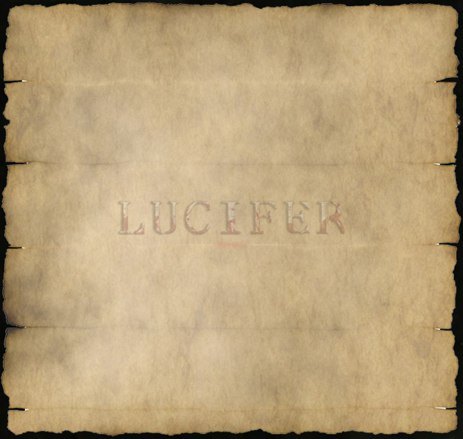
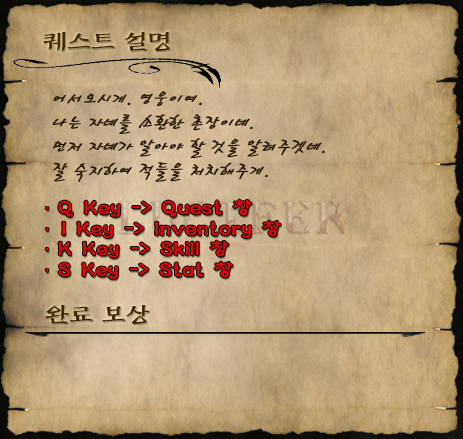
Update : Quest BTN, Content add

diff --git a/lucifer/lucifer/static/js/game/User_Interface/Quest.js b/lucifer/lucifer/static/js/game/User_Interface/Quest.js
@@ -12,12 +12,22 @@ var QuestContent_lv1, QuestContent_lv2, QuestContent_lv3,
     QuestContent_lv7, QuestContent_lv8, QuestContent_lv9, QuestContent_lv10 ;
 
 var text, text2, text3, text4, text5, text6, text7, text8, text9, text10, style;
+var btnText, btnText2, btnText3, btnText4, btnText5, btnText6, btnText7, btnText8, btnText9, btnText10 ;
 
 function QuestPreload(){
 
     Lucifer_Game.load.spritesheet('UI_Quest', '../../static/images/game/UI/Quest/QuestFrame.png', 867, 580);
     Lucifer_Game.load.spritesheet('Questbtn', '../../static/images/game/UI/Quest/QuestBtn.png', 325, 43);
     Lucifer_Game.load.spritesheet('QuestContent', '../../static/images/game/UI/Quest/Questcontent.png', 463, 439);
+    Lucifer_Game.load.spritesheet('QuestContent2', '../../static/images/game/UI/Quest/Questcontent2.png', 463, 439);
+    Lucifer_Game.load.spritesheet('QuestContent3', '../../static/images/game/UI/Quest/Questcontent3.png', 463, 439);
+    Lucifer_Game.load.spritesheet('QuestContent4', '../../static/images/game/UI/Quest/Questcontent4.png', 463, 439);
+    Lucifer_Game.load.spritesheet('QuestContent5', '../../static/images/game/UI/Quest/Questcontent5.png', 463, 439);
+    Lucifer_Game.load.spritesheet('QuestContent6', '../../static/images/game/UI/Quest/Questcontent6.png', 463, 439);
+    Lucifer_Game.load.spritesheet('QuestContent7', '../../static/images/game/UI/Quest/Questcontent7.png', 463, 439);
+    Lucifer_Game.load.spritesheet('QuestContent8', '../../static/images/game/UI/Quest/Questcontent8.png', 463, 439);
+    Lucifer_Game.load.spritesheet('QuestContent9', '../../static/images/game/UI/Quest/Questcontent9.png', 463, 439);
+    Lucifer_Game.load.spritesheet('QuestContent10', '../../static/images/game/UI/Quest/Questcontent10.png', 463, 439);
 
 };
 
@@ -49,6 +59,9 @@ function QuestCreate(){
      Questbtn_lv1.anchor.setTo(0.5, 0.5);
      Questbtn_lv1.fixedToCamera = true;
      Questbtn_lv1.visible = false;
+
+     btnText = Lucifer_Game.add.text(203, 600, "LV.1    -    [ 인터페이스를 알아보자 ]" , {font: '17px Roboto', fill: '#ffffff'});
+     btnText.anchor.set(0.5);
      //---------------------------------------------------------------
 
      //QuestButton Level 2 
@@ -56,6 +69,9 @@ function QuestCreate(){
      Questbtn_lv2.anchor.setTo(0.5, 0.5);
      Questbtn_lv2.fixedToCamera = true;
      Questbtn_lv2.visible = false;
+
+     btnText2 = Lucifer_Game.add.text(203, 600, "LV.2    -    [ 기본 아이템 구매 ]" , {font: '17px Roboto', fill: '#ffffff'});
+     btnText2.anchor.set(0.5);
      //---------------------------------------------------------------
 
      //QuestButton Level 3 
@@ -63,6 +79,9 @@ function QuestCreate(){
      Questbtn_lv3.anchor.setTo(0.5, 0.5);
      Questbtn_lv3.fixedToCamera = true;
      Questbtn_lv3.visible = false;
+
+     btnText3 = Lucifer_Game.add.text(203, 600, "LV.3    -    [ Countess 처치하라 ]" , {font: '17px Roboto', fill: '#ffffff'});
+     btnText3.anchor.set(0.5);
      //---------------------------------------------------------------
 
      //QuestButton Level 4 
@@ -70,6 +89,9 @@ function QuestCreate(){
      Questbtn_lv4.anchor.setTo(0.5, 0.5);
      Questbtn_lv4.fixedToCamera = true;
      Questbtn_lv4.visible = false;
+
+     btnText4 = Lucifer_Game.add.text(203, 600, "LV.4    -    [ Golem을 저지하라 ]" , {font: '17px Roboto', fill: '#ffffff'});
+     btnText4.anchor.set(0.5);
      //---------------------------------------------------------------
 
      //QuestButton Level 5 
@@ -77,6 +99,9 @@ function QuestCreate(){
      Questbtn_lv5.anchor.setTo(0.5, 0.5);
      Questbtn_lv5.fixedToCamera = true;
      Questbtn_lv5.visible = false;
+
+     btnText5 = Lucifer_Game.add.text(203, 600, "LV.5    -    [ Demon을 잡아보자 ]" , {font: '17px Roboto', fill: '#ffffff'});
+     btnText5.anchor.set(0.5);
      //---------------------------------------------------------------
 
      //QuestButton Level 6 
@@ -84,6 +109,9 @@ function QuestCreate(){
      Questbtn_lv6.anchor.setTo(0.5, 0.5);
      Questbtn_lv6.fixedToCamera = true;
      Questbtn_lv6.visible = false;
+
+     btnText6 = Lucifer_Game.add.text(203, 600, "LV.6    -    [ Council를 처치하라 ]" , {font: '17px Roboto', fill: '#ffffff'});
+     btnText6.anchor.set(0.5);
      //---------------------------------------------------------------
 
      //QuestButton Level 7 
@@ -91,6 +119,9 @@ function QuestCreate(){
      Questbtn_lv7.anchor.setTo(0.5, 0.5);
      Questbtn_lv7.fixedToCamera = true;
      Questbtn_lv7.visible = false;
+
+     btnText7 = Lucifer_Game.add.text(203, 600, "LV.7    -    [ Wraith를 무찌르자 ]" , {font: '17px Roboto', fill: '#ffffff'});
+     btnText7.anchor.set(0.5);
      //---------------------------------------------------------------
 
      //QuestButton Level 8 
@@ -98,6 +129,9 @@ function QuestCreate(){
      Questbtn_lv8.anchor.setTo(0.5, 0.5);
      Questbtn_lv8.fixedToCamera = true;
      Questbtn_lv8.visible = false;
+
+     btnText8 = Lucifer_Game.add.text(203, 600, "LV.8    -    [ Fallen_Shaman을 막자 ]" , {font: '17px Roboto', fill: '#ffffff'});
+     btnText8.anchor.set(0.5);
      //---------------------------------------------------------------
 
      //QuestButton Level 9 
@@ -105,6 +139,9 @@ function QuestCreate(){
      Questbtn_lv9.anchor.setTo(0.5, 0.5);
      Questbtn_lv9.fixedToCamera = true;
      Questbtn_lv9.visible = false;
+
+     btnText9 = Lucifer_Game.add.text(203, 600, "LV.9    -    [ Andariel을 처치하라 ]" , {font: '17px Roboto', fill: '#ffffff'});
+     btnText9.anchor.set(0.5);
      //---------------------------------------------------------------
 
      //QuestButton Level 10 
@@ -112,6 +149,9 @@ function QuestCreate(){
      Questbtn_lv10.anchor.setTo(0.5, 0.5);
      Questbtn_lv10.fixedToCamera = true;
      Questbtn_lv10.visible = false;
+
+     btnText10 = Lucifer_Game.add.text(203, 600, "LV.10    -    [ Diablo를 봉인하라 ]" , {font: '17px Roboto', fill: '#ffffff'});
+     btnText10.anchor.set(0.5);
      //---------------------------------------------------------------
 
      //---------------------------------------------------------------------------------------------
@@ -123,99 +163,109 @@ function QuestCreate(){
      //---------------------------------------------------------------
 
      //QuestContent 2
-     QuestContent_lv2 = Lucifer_Game.add.sprite(817, 382.5, 'QuestContent');
+     QuestContent_lv2 = Lucifer_Game.add.sprite(817, 382.5, 'QuestContent2');
      QuestContent_lv2.anchor.setTo(0.5, 0.5);
      QuestContent_lv2.fixedToCamera = true;
      QuestContent_lv2.visible = false;
      //---------------------------------------------------------------
 
      //QuestContent 3
-     QuestContent_lv3 = Lucifer_Game.add.sprite(817, 382.5, 'QuestContent');
+     QuestContent_lv3 = Lucifer_Game.add.sprite(817, 382.5, 'QuestContent3');
      QuestContent_lv3.anchor.setTo(0.5, 0.5);
      QuestContent_lv3.fixedToCamera = true;
      QuestContent_lv3.visible = false;
      //---------------------------------------------------------------
 
      //QuestContent 4
-     QuestContent_lv4 = Lucifer_Game.add.sprite(817, 382.5, 'QuestContent');
+     QuestContent_lv4 = Lucifer_Game.add.sprite(817, 382.5, 'QuestContent4');
      QuestContent_lv4.anchor.setTo(0.5, 0.5);
      QuestContent_lv4.fixedToCamera = true;
      QuestContent_lv4.visible = false;
      //---------------------------------------------------------------
 
      //QuestContent 5
-     QuestContent_lv5 = Lucifer_Game.add.sprite(817, 382.5, 'QuestContent');
+     QuestContent_lv5 = Lucifer_Game.add.sprite(817, 382.5, 'QuestContent5');
      QuestContent_lv5.anchor.setTo(0.5, 0.5);
      QuestContent_lv5.fixedToCamera = true;
      QuestContent_lv5.visible = false;
      //---------------------------------------------------------------
 
      //QuestContent 6
-     QuestContent_lv6 = Lucifer_Game.add.sprite(817, 382.5, 'QuestContent');
+     QuestContent_lv6 = Lucifer_Game.add.sprite(817, 382.5, 'QuestContent6');
      QuestContent_lv6.anchor.setTo(0.5, 0.5);
      QuestContent_lv6.fixedToCamera = true;
      QuestContent_lv6.visible = false;
      //---------------------------------------------------------------
 
      //QuestContent 7
-     QuestContent_lv7 = Lucifer_Game.add.sprite(817, 382.5, 'QuestContent');
+     QuestContent_lv7 = Lucifer_Game.add.sprite(817, 382.5, 'QuestContent7');
      QuestContent_lv7.anchor.setTo(0.5, 0.5);
      QuestContent_lv7.fixedToCamera = true;
      QuestContent_lv7.visible = false;
      //---------------------------------------------------------------
 
      //QuestContent 8
-     QuestContent_lv8 = Lucifer_Game.add.sprite(817, 382.5, 'QuestContent');
+     QuestContent_lv8 = Lucifer_Game.add.sprite(817, 382.5, 'QuestContent8');
      QuestContent_lv8.anchor.setTo(0.5, 0.5);
      QuestContent_lv8.fixedToCamera = true;
      QuestContent_lv8.visible = false;
      //---------------------------------------------------------------
 
      //QuestContent 9
-     QuestContent_lv9 = Lucifer_Game.add.sprite(817, 382.5, 'QuestContent');
+     QuestContent_lv9 = Lucifer_Game.add.sprite(817, 382.5, 'QuestContent9');
      QuestContent_lv9.anchor.setTo(0.5, 0.5);
      QuestContent_lv9.fixedToCamera = true;
      QuestContent_lv9.visible = false;
      //---------------------------------------------------------------
 
      //QuestContent 10
-     QuestContent_lv10 = Lucifer_Game.add.sprite(817, 382.5, 'QuestContent');
+     QuestContent_lv10 = Lucifer_Game.add.sprite(817, 382.5, 'QuestContent10');
      QuestContent_lv10.anchor.setTo(0.5, 0.5);
      QuestContent_lv10.fixedToCamera = true;
      QuestContent_lv10.visible = false;
      //---------------------------------------------------------------
 
      //Quest TEXT
-     style = { font: "32px Arial", fill: "#ff0044", wordWrap: true, wordWrapWidth: QuestContent_lv1.width, align: "center", backgroundColor: "#ffff00" };
+     style = { font: "20px Roboto", fill: "#ffffff", wordWrap: true, wordWrapWidth: QuestContent_lv1.width, align: "left", stroke: "#000000", strokeThickness: 2};
 
-     text = Lucifer_Game.add.text(0, 0 , " Quest 1", style);
+     text = Lucifer_Game.add.text(0, 0 , " 경험치 :  300 Exp \n Gold :  - Lup ", style);
+     text.setShadow(2, 2, '#000000', 0, true, true);
      text.anchor.set(0.5);
 
-     text2 = Lucifer_Game.add.text(0, 0 , " Quest 2", style);
+     text2 = Lucifer_Game.add.text(0, 0 , " 경험치 :  500 Exp \n Gold :  500 Lup ", style);
+     text2.setShadow(2, 2, '#000000', 0, true, true);
      text2.anchor.set(0.5);
 
-     text3 = Lucifer_Game.add.text(0, 0 , " Quest 3", style);
+     text3 = Lucifer_Game.add.text(0, 0 , " 경험치 :  500 Exp \n Gold :  500 Lup ", style);
+     text3.setShadow(2, 2, '#000000', 0, true, true);
      text3.anchor.set(0.5);
 
-     text4 = Lucifer_Game.add.text(0, 0 , " Quest 4", style);
+     text4 = Lucifer_Game.add.text(0, 0 , " 경험치 :  1000 Exp \n Gold :  2000 Lup ", style);
+     text4.setShadow(2, 2, '#000000', 0, true, true);
      text4.anchor.set(0.5);
 
-     text5 = Lucifer_Game.add.text(0, 0 , " Quest 5", style);
+     text5 = Lucifer_Game.add.text(0, 0 , " 경험치 :  700 Exp \n Gold :  700 Lup ", style);
+     text5.setShadow(2, 2, '#000000', 0, true, true);
      text5.anchor.set(0.5);
 
-     text6 = Lucifer_Game.add.text(0, 0 , " Quest 6", style);
+     text6 = Lucifer_Game.add.text(0, 0 , " 경험치 :  1000 Exp \n Gold :  1000 Lup ", style);
+     text6.setShadow(2, 2, '#000000', 0, true, true);
      text6.anchor.set(0.5);
 
-     text7 = Lucifer_Game.add.text(0, 0 , " Quest 7", style);
+     text7 = Lucifer_Game.add.text(0, 0 , " 경험치 :  1000 Exp \n Gold :  1000 Lup ", style);
+     text7.setShadow(2, 2, '#000000', 0, true, true);
      text7.anchor.set(0.5);
 
-     text8 = Lucifer_Game.add.text(0, 0 , " Quest 8", style);
+     text8 = Lucifer_Game.add.text(0, 0 , " 경험치 :  1500 Exp \n Gold :  1500 Lup ", style);
+     text8.setShadow(2, 2, '#000000', 0, true, true);
      text8.anchor.set(0.5);
 
-     text9 = Lucifer_Game.add.text(0, 0 , " Quest 9", style);
+     text9 = Lucifer_Game.add.text(0, 0 , " 경험치 :  2000 Exp \n Gold :  2000 Lup ", style);
+     text9.setShadow(2, 2, '#000000', 0, true, true);
      text9.anchor.set(0.5);
 
-     text10 = Lucifer_Game.add.text(0, 0 , " Quest 10", style);
+     text10 = Lucifer_Game.add.text(0, 0 , " 경험치 :  2500 Exp \n Gold :  2500 Lup ", style);
+     text10.setShadow(2, 2, '#000000', 0, true, true);
      text10.anchor.set(0.5);
 
      text.visible = false;
@@ -228,6 +278,17 @@ function QuestCreate(){
      text8.visible = false;
      text9.visible = false;
      text10.visible = false;
+
+     btnText.visible = false;
+     btnText2.visible = false;
+     btnText3.visible = false;
+     btnText4.visible = false;
+     btnText5.visible = false;
+     btnText6.visible = false;
+     btnText7.visible = false;
+     btnText8.visible = false;
+     btnText9.visible = false;
+     btnText10.visible = false;
      //----------------------------------------------------------------
 
 
@@ -250,35 +311,67 @@ function QuestUpdate(){
         validCheck = 0;
     }
 
-    text.x = Math.floor(QuestContent_lv1.x - 230 + QuestContent_lv1.width / 2);
-    text.y = Math.floor(QuestContent_lv1.y - 180 + QuestContent_lv1.height / 2);
+    text.x = Math.floor(QuestContent_lv1.x - 340 + QuestContent_lv1.width / 2);
+    text.y = Math.floor(QuestContent_lv1.y - 65 + QuestContent_lv1.height / 2);
 
-    text2.x = Math.floor(QuestContent_lv1.x - 230 + QuestContent_lv1.width / 2);
-    text2.y = Math.floor(QuestContent_lv1.y - 180 + QuestContent_lv1.height / 2);
+    text2.x = Math.floor(QuestContent_lv2.x - 340 + QuestContent_lv2.width / 2);
+    text2.y = Math.floor(QuestContent_lv2.y - 65 + QuestContent_lv2.height / 2);
 
-    text3.x = Math.floor(QuestContent_lv1.x - 230 + QuestContent_lv1.width / 2);
-    text3.y = Math.floor(QuestContent_lv1.y - 180 + QuestContent_lv1.height / 2);
+    text3.x = Math.floor(QuestContent_lv3.x - 340 + QuestContent_lv3.width / 2);
+    text3.y = Math.floor(QuestContent_lv3.y - 65 + QuestContent_lv3.height / 2);
 
-    text4.x = Math.floor(QuestContent_lv1.x - 230 + QuestContent_lv1.width / 2);
-    text4.y = Math.floor(QuestContent_lv1.y - 180 + QuestContent_lv1.height / 2);
+    text4.x = Math.floor(QuestContent_lv4.x - 340 + QuestContent_lv4.width / 2);
+    text4.y = Math.floor(QuestContent_lv4.y - 65 + QuestContent_lv4.height / 2);
 
-    text5.x = Math.floor(QuestContent_lv1.x - 230 + QuestContent_lv1.width / 2);
-    text5.y = Math.floor(QuestContent_lv1.y - 180 + QuestContent_lv1.height / 2);
+    text5.x = Math.floor(QuestContent_lv5.x - 340 + QuestContent_lv5.width / 2);
+    text5.y = Math.floor(QuestContent_lv5.y - 65 + QuestContent_lv5.height / 2);
 
-    text6.x = Math.floor(QuestContent_lv1.x - 230 + QuestContent_lv1.width / 2);
-    text6.y = Math.floor(QuestContent_lv1.y - 180 + QuestContent_lv1.height / 2);
+    text6.x = Math.floor(QuestContent_lv6.x - 340 + QuestContent_lv6.width / 2);
+    text6.y = Math.floor(QuestContent_lv6.y - 65 + QuestContent_lv6.height / 2);
 
-    text7.x = Math.floor(QuestContent_lv1.x - 230 + QuestContent_lv1.width / 2);
-    text7.y = Math.floor(QuestContent_lv1.y - 180 + QuestContent_lv1.height / 2);
+    text7.x = Math.floor(QuestContent_lv7.x - 340 + QuestContent_lv7.width / 2);
+    text7.y = Math.floor(QuestContent_lv7.y - 65 + QuestContent_lv7.height / 2);
 
-    text8.x = Math.floor(QuestContent_lv1.x - 230 + QuestContent_lv1.width / 2);
-    text8.y = Math.floor(QuestContent_lv1.y - 180 + QuestContent_lv1.height / 2);
+    text8.x = Math.floor(QuestContent_lv8.x - 340 + QuestContent_lv8.width / 2);
+    text8.y = Math.floor(QuestContent_lv8.y - 65 + QuestContent_lv8.height / 2);
 
-    text9.x = Math.floor(QuestContent_lv1.x - 230 + QuestContent_lv1.width / 2);
-    text9.y = Math.floor(QuestContent_lv1.y - 180 + QuestContent_lv1.height / 2);
+    text9.x = Math.floor(QuestContent_lv9.x - 340 + QuestContent_lv9.width / 2);
+    text9.y = Math.floor(QuestContent_lv9.y - 65 + QuestContent_lv9.height / 2);
 
-    text10.x = Math.floor(QuestContent_lv1.x - 230 + QuestContent_lv1.width / 2);
-    text10.y = Math.floor(QuestContent_lv1.y - 180 + QuestContent_lv1.height / 2);
+    text10.x = Math.floor(QuestContent_lv10.x - 340 + QuestContent_lv10.width / 2);
+    text10.y = Math.floor(QuestContent_lv10.y - 65 + QuestContent_lv10.height / 2);
+
+    //btnTEXT
+
+    btnText.x = Math.floor(Questbtn_lv1.x - 170 + Questbtn_lv1.width / 2);
+    btnText.y = Math.floor(Questbtn_lv1.y - 18 + Questbtn_lv1.height / 2);
+
+    btnText2.x = Math.floor(Questbtn_lv2.x - 193 + Questbtn_lv2.width / 2);
+    btnText2.y = Math.floor(Questbtn_lv2.y - 18 + Questbtn_lv2.height / 2);
+
+    btnText3.x = Math.floor(Questbtn_lv3.x - 185 + Questbtn_lv3.width / 2);
+    btnText3.y = Math.floor(Questbtn_lv3.y - 18 + Questbtn_lv3.height / 2);
+
+    btnText4.x = Math.floor(Questbtn_lv4.x - 188 + Questbtn_lv4.width / 2);
+    btnText4.y = Math.floor(Questbtn_lv4.y - 18 + Questbtn_lv4.height / 2);
+
+    btnText5.x = Math.floor(Questbtn_lv5.x - 186 + Questbtn_lv5.width / 2);
+    btnText5.y = Math.floor(Questbtn_lv5.y - 18 + Questbtn_lv5.height / 2);
+
+    btnText6.x = Math.floor(Questbtn_lv6.x - 184 + Questbtn_lv6.width / 2);
+    btnText6.y = Math.floor(Questbtn_lv6.y - 18 + Questbtn_lv6.height / 2);
+
+    btnText7.x = Math.floor(Questbtn_lv7.x - 188 + Questbtn_lv7.width / 2);
+    btnText7.y = Math.floor(Questbtn_lv7.y - 18 + Questbtn_lv7.height / 2);
+
+    btnText8.x = Math.floor(Questbtn_lv8.x - 172 + Questbtn_lv8.width / 2);
+    btnText8.y = Math.floor(Questbtn_lv8.y - 18 + Questbtn_lv8.height / 2);
+
+    btnText9.x = Math.floor(Questbtn_lv9.x - 181 + Questbtn_lv9.width / 2);
+    btnText9.y = Math.floor(Questbtn_lv9.y - 18 + Questbtn_lv9.height / 2);
+
+    btnText10.x = Math.floor(Questbtn_lv10.x - 183 + Questbtn_lv10.width / 2);
+    btnText10.y = Math.floor(Questbtn_lv10.y - 18 + Questbtn_lv10.height / 2);
 }
 
 
@@ -300,6 +393,17 @@ function viewQuest()
 
     //QuestContent
     //QuestContent.visible = true;
+
+    btnText.visible = true;
+    btnText2.visible = true;
+    btnText3.visible = true;
+    btnText4.visible = true;
+    btnText5.visible = true;
+    btnText6.visible = true;
+    btnText7.visible = true;
+    btnText8.visible = true;
+    btnText9.visible = true;
+    btnText10.visible = true;
 
 
 
@@ -346,6 +450,18 @@ function QuestUi()
         text8.visible = false;
         text9.visible = false;
         text10.visible = false;
+
+        //Quest btn TEXT
+        btnText.visible = false;
+        btnText2.visible = false;
+        btnText3.visible = false;
+        btnText4.visible = false;
+        btnText5.visible = false;
+        btnText6.visible = false;
+        btnText7.visible = false;
+        btnText8.visible = false;
+        btnText9.visible = false;
+        btnText10.visible = false;
     }
     else
     {
